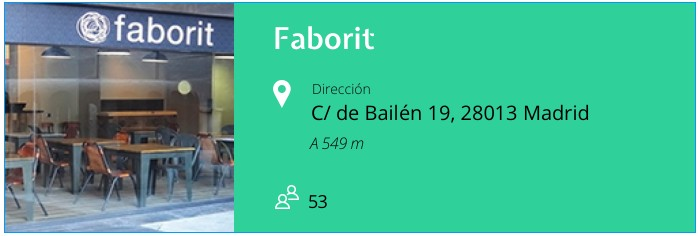
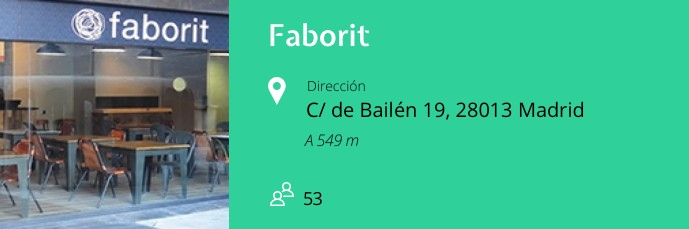
improvements layout

diff --git a/src/App.css b/src/App.css
@@ -3,11 +3,12 @@
 
 .sectionList {
   width: 50vw;
-  background: red;
-  height: 500px; }
+  height: 500px;
+  background: red; }
 
 .sectionDetails {
-  width: 50vw; }
+  width: 50vw;
+  margin-right: 28px; }
 
 .exampleMap {
   width: 692px;

diff --git a/src/App.scss b/src/App.scss
@@ -6,11 +6,12 @@
 }
 .sectionList{
   width: 50vw;
-  background: red;
   height: 500px;
+  background: red;
 }
 .sectionDetails{
   width: 50vw;
+  margin-right: 28px;
 }
 .exampleMap{
   width: 692px;
